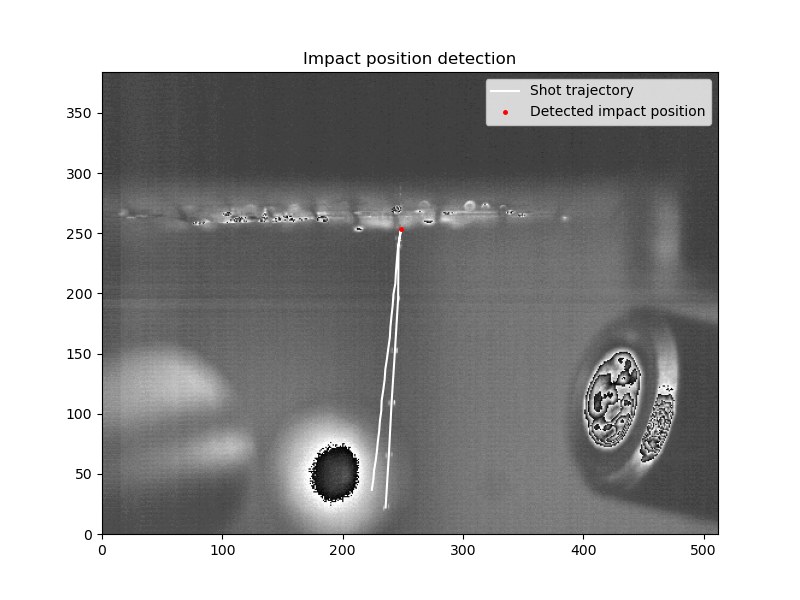
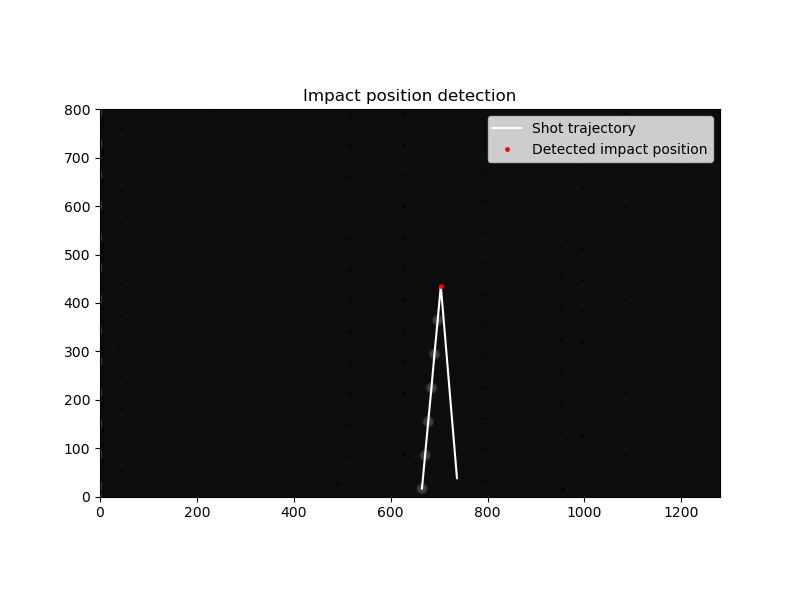
Fix exemple script

diff --git a/Example_script.py b/Example_script.py
@@ -4,46 +4,43 @@ Reconstruct the 3D trajectory of a shot filmed by two orthogonal cameras
 import matplotlib.pyplot as plt
 import numpy as np
 
-from data_treat.reconstruction_3d import reconstruct_3d, cam_shift_origin
+from data_treat.reconstruction_3d import reconstruct_3d
 from data_treat.cam import Cam
 from calibration.main import calibrate_stereo
 from data_treat.data_pp import result_plot, get_init_angle, get_impact_position, get_velocity
 from data_treat.make_report import make_report, load_data
 from gui.recons_gui import start_gui
+from data_treat.trajectory import Experiment
+
 
 print("******* Calibrating cameras")
-calibrate_stereo("calibration/lens_dist_calib_top",
-                 "calibration/lens_dist_calib_left",
-                 "calibration/sources/calib_checker_top.jpg",
-                 "calibration/sources/calib_checker_left.jpg",
-                 chess_dim=7,
-                 chess_case_len=0.4375)
+# calibrate_stereo("calibration/lens_dist_calib_top",
+#                  "calibration/lens_dist_calib_left",
+#                  "calibration/sources/calib_checker_top.jpg",
+#                  "calibration/sources/calib_checker_left.jpg",
+#                  "calibration/res/",
+#                  chess_dim=7,
+#                  chess_case_len=0.4375)
 
 
 print("******* Loading camera data and props")
 calib_file = "calibration/res/cam_top"  # Camera calibration file folder
 cam_top = Cam(calib_file,
-              "camTop",  # Top Camera picture folder
+              "tests\\single\\camTop",  # Top Camera picture folder
               firstPic=0,  # Top Camera first picture name
               pic_to_cm=1 / 141.1,  # Top Camera pixel to cm conversion ratio
               framerate=15000,  # Top Camera framerate
-              camRes=(500, 500),  # Camera resolution
-              res=(500, 500),  # Resized picture resolution (after cropping the metadata banner)
-              cropsize=[0, 0, 0, 0])  # Image crop size (X_start, X_end, Y_start, Y_end)
-# [0, 50, 0, 145]
+              camRes=(1280, 800),  # Camera resolution
+              res=(1280, 800))  # Resized picture resolution (after cropping the metadata banner)
 
 calib_file = "calibration/res/cam_left"  # Camera calibration file folder
 cam_left = Cam(calib_file,
-               "camLeft",
+               "tests\\single\\camLeft",
                firstPic=0,
                pic_to_cm=1 / 148.97,
                framerate=15000,
-               camRes=(500, 500),
-               res=(500, 500),
-               cropsize=[0, 0, 0, 0])
-# [207, 0, 0, 50]
-#cam_shift_origin(cam_left)
-#cam_shift_origin(cam_top)
+               camRes=(1280, 800),
+               res=(1280, 800))
 
 # print("******* Removing lens distorsion")
 # cam_top.undistort()
@@ -67,4 +64,8 @@ print("******* Compute Velocity values")
 Vinit, Vend = get_velocity(timespan, X, Y, Z)
 
 print("******* Export trajectory file and report")
-make_report(timespan, X, Y, Z, alpha, Vinit, Vend, [xi, yi, zi], cam_top, cam_left, "TestBlender")
+traj_3d = Experiment()
+traj_3d.set_exp_params("0.5mm", "Al6051", "100", "Trajectory.txt")
+traj_3d.set_trajectory(timespan, X, Y, Z)
+traj_3d.set_pp(alpha, Vinit, Vend, [xi, yi, zi])
+make_report(traj_3d, cam_top, cam_left, "data_treat\\report_template.txt")

diff --git a/calibration/main.py b/calibration/main.py
@@ -27,15 +27,6 @@ def calibrate_stereo(left_lens, right_lens, left_pos, right_pos, calib_folder, c
     print("Getting reference frame transformations")
     R_top, T_top = get_transfo_mat(left_pos, mtx_top, dist_top, chess_dim, chess_case_len, pic)
     R_left, T_left = get_transfo_mat(right_pos, mtx_left, dist_left, chess_dim, chess_case_len, pic)
-    #T_left[0] += chess_case_len * (chess_dim -1 )
-
-    # new_angle = np.linalg.norm(R_top)
-    # T_top[0] += chess_case_len * 3 * np.cos(new_angle)
-    # T_top[2] += chess_case_len * 3 * np.sin(new_angle)
-    # T_top[1] += chess_case_len * 3
-    # T_left[0] += chess_case_len * 3
-    # T_left[1] += chess_case_len * 3 * np.sin(np.pi/4)
-    # T_left[2] -= chess_case_len * 3 * np.cos(np.pi / 4)
 
     print("Check system coordinate consistency")
     my_dpi = 96

diff --git a/data_treat/cam.py b/data_treat/cam.py
@@ -33,6 +33,8 @@ class Cam:
         self.cropSize = cropsize
         self.res = res
         self.camRes = camRes
+        if not(res is None) and not(camRes is None):
+            self.set_crop_size()
         self.cam_thres = cam_thres
         self.mask_w = 0
         self.mask_h = 0
@@ -102,7 +104,6 @@ class Cam:
         R = np.matrix(json.loads(lines[5]))
         self.set_R(R)
         self.T = np.array(json.loads(lines[7])[0])
-
 
     def load_from_string(self, data):
         lines = data.split('\n')

diff --git a/TODO.md b/TODO.md
@@ -2,4 +2,3 @@
 - [ ] Set default
 - [ ] Documentation
 - [ ] Code cleanups
-- [ ] Fix exemple script
